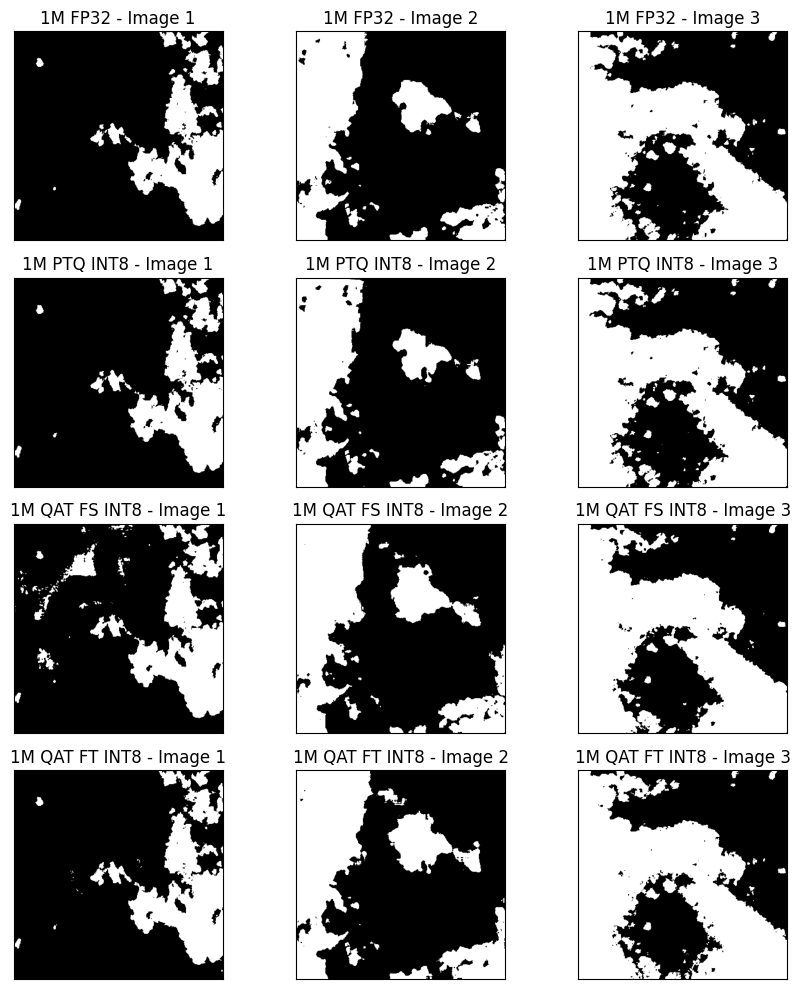
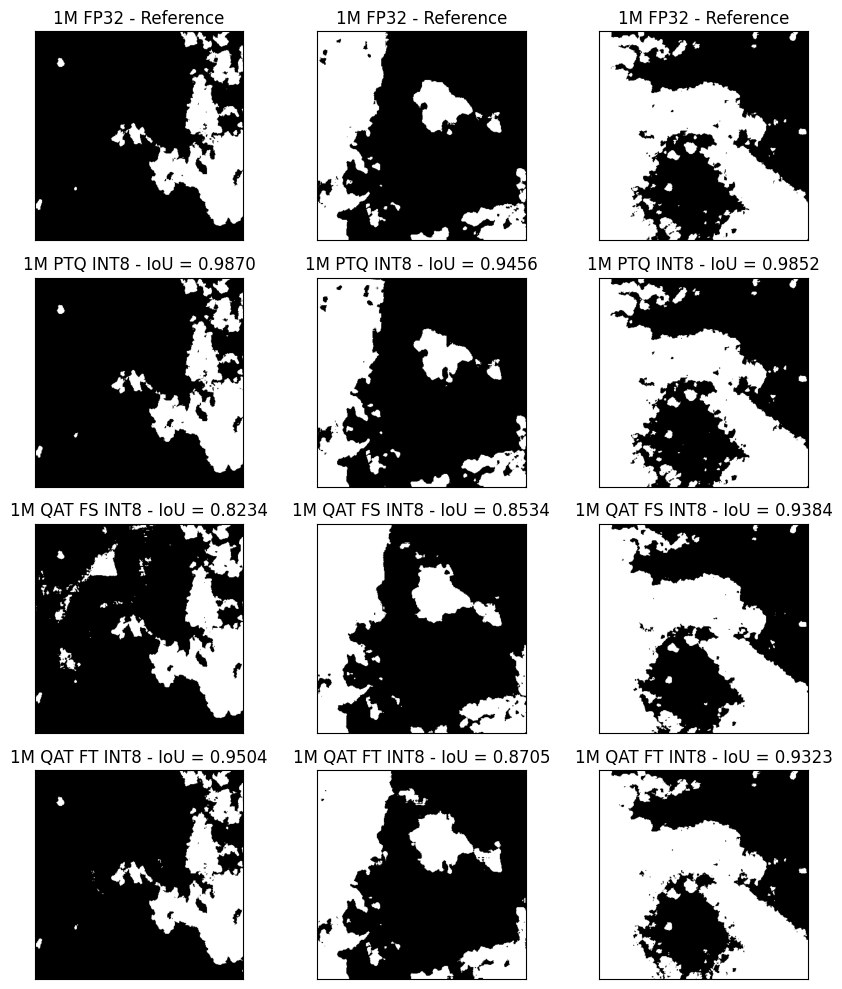
feat: IoU and MACs for metrics purposes

diff --git a/inference.py b/inference.py
@@ -6,12 +6,13 @@ import matplotlib.pyplot as plt
 from PIL import Image
 import tifffile
 import warnings
+import torchprofile
 
 from cloud_dataset import CloudDataset
-from unet import Unet_1M, Unet_7M, Unet_31M, Unet_1M_Q
+from unet import Unet_1M, Unet_7M, Unet_31M, Unet_1M_Q, Unet_400K
 
 warnings.filterwarnings("ignore", message="The given buffer is not writable")
-torch.backends.quantized.engine = 'fbgemm'
+torch.backends.quantized.engine = 'qnnpack'
 
 def single_image_inference(image_paths, model_pth, device, output_path="inference_result.png"):
     """
@@ -130,10 +131,11 @@ def single_image_inference(image_paths, model_pth, device, output_path="inferenc
     print(f"Figure saved to {output_path}")
     plt.close()
 
-def batch_comparison_inference(image_paths_list, models, device, output_path="inference_result.png", model_names=None):
+def batch_comparison_inference(image_paths_list, models, thresholds, device, output_path="inference_result.png", model_names=None):
     """
     image_paths_list: list of dicts, each containing paths to 4-channel images
     models: list of 2 model paths to compare
+    thresholds: list of thresholds for each model to binarize the output (same order as models)
     device: torch device
     output_path: path to save the result figure
     model_names: list of names for each model (optional)
@@ -154,9 +156,21 @@ def batch_comparison_inference(image_paths_list, models, device, output_path="in
             device = "cuda" if torch.cuda.is_available() else "cpu"
             loaded_program = torch.export.load(model_pth)
             model = loaded_program.module()
+        elif model_pth.endswith("unet_400k.pth"):
+            device = "cuda" if torch.cuda.is_available() else "cpu"
+            model = Unet_400K(in_channels=4, num_classes=1).to(device)
+            model.load_state_dict(torch.load(model_pth, map_location=torch.device(device)))
         elif model_pth.endswith("unet_1M.pth"):
             device = "cuda" if torch.cuda.is_available() else "cpu"
             model = Unet_1M(in_channels=4, num_classes=1).to(device)
+            model.load_state_dict(torch.load(model_pth, map_location=torch.device(device)))
+        elif model_pth.endswith("unet_7M.pth"):
+            device = "cuda" if torch.cuda.is_available() else "cpu"
+            model = Unet_7M(in_channels=4, num_classes=1).to(device)
+            model.load_state_dict(torch.load(model_pth, map_location=torch.device(device)))
+        elif model_pth.endswith("unet_31M.pth"):
+            device = "cuda" if torch.cuda.is_available() else "cpu"
+            model = Unet_31M(in_channels=4, num_classes=1).to(device)
             model.load_state_dict(torch.load(model_pth, map_location=torch.device(device)))
         elif model_pth.__contains__("QAT_FS"):
             device = "cpu"
@@ -215,6 +229,10 @@ def batch_comparison_inference(image_paths_list, models, device, output_path="in
             model.eval()
         loaded_models.append((model, model_pth))
 
+    source_pred_masks = []
+    IoUs = [[] for _ in range(len(models))]
+    macs = [[] for _ in range(len(models))]
+
     # Process each image
     for img_idx, image_paths in enumerate(image_paths_list):
         channels = []
@@ -232,14 +250,22 @@ def batch_comparison_inference(image_paths_list, models, device, output_path="in
             img_tensor = img_tensor_base.to(current_device)
             
             with torch.no_grad():
+                macs[model_idx].append(torchprofile.profile_macs(model, img_tensor))
                 pred_mask = model(img_tensor)
             
             pred_mask = pred_mask.squeeze(0).cpu().detach().numpy()
-            pred_mask = np.where(pred_mask > 2, 1, 0)
+            pred_mask = np.where(pred_mask > thresholds[model_idx], 1, 0)
             
+            if model_idx == 0:
+                source_pred_masks.append(pred_mask)
+                IoUs[model_idx].append(1)
+            else:
+                iou = calculate_iou(pred_mask, source_pred_masks[img_idx])
+                IoUs[model_idx].append(iou)
+
             axes[model_idx, img_idx].imshow(pred_mask[0], cmap="gray")
             if model_names:
-                axes[model_idx, img_idx].set_title(f"{model_names[model_idx]} - Image {img_idx+1}")
+                axes[model_idx, img_idx].set_title(f"{model_names[model_idx]} - {"IoU = {:.4f}".format(IoUs[model_idx][-1]) if model_idx > 0 else 'Reference'}")
             else:
                 axes[model_idx, img_idx].set_title(f"Model {model_idx+1} - Image {img_idx+1}")
             axes[model_idx, img_idx].set_xticks([])
@@ -248,7 +274,33 @@ def batch_comparison_inference(image_paths_list, models, device, output_path="in
     plt.tight_layout()
     plt.savefig(output_path, dpi=100, bbox_inches='tight')
     print(f"Comparison figure saved to {output_path}")
+    for model_idx, (model, model_pth) in enumerate(loaded_models):
+        if model_idx == 0:
+            print(f"Model {model_idx+1} (Reference): IoU = 1.0000")
+            avg_macs = np.mean(macs[model_idx])
+            print(f"Model {model_idx+1} ({model_pth}): Average MACs = {avg_macs:.2f}")
+        else:
+            avg_iou = np.mean(IoUs[model_idx])
+            print(f"Model {model_idx+1} ({model_pth}): Average IoU = {avg_iou:.4f}")
+            avg_macs = np.mean(macs[model_idx])
+            print(f"Model {model_idx+1} ({model_pth}): Average MACs = {avg_macs:.2f}")
     plt.close()
+
+def calculate_iou(mask1, mask2):
+    mask1 = np.ndarray.flatten(mask1)
+    mask2 = np.ndarray.flatten(mask2)
+
+    m1 = np.asarray(mask1).astype(bool)
+    m2 = np.asarray(mask2).astype(bool)
+    
+    intersection = np.logical_and(m1, m2).sum()
+    union = np.logical_or(m1, m2).sum()
+    
+    if union == 0:
+        return 1.0
+        
+    iou = intersection / union
+    return float(iou)
 
 if __name__ == "__main__":
     image_names = [("92_5_by_8_LC08_L1TP_029041_20160720_20170222_01_T1", "test"), ("49_3_by_9_LC08_L1TP_032035_20160420_20170223_01_T1", "test"), ("148_7_by_16_LC08_L1TP_061017_20160720_20170223_01_T1", "train")]
@@ -262,14 +314,13 @@ if __name__ == "__main__":
             'mask': f'./dataset/38-Cloud_{"training" if type == "train" else "test"}/{type}_gt/gt_patch_{image_name}.TIF' if type == "train" else None
         })
 
-    print(image_list)
-
 
     model_pth = "unet_1M_QAT_FT_int8.pth"
     device = "cuda" if torch.cuda.is_available() else "cpu"
     # The two first crop the mask
-# single_image_inference(image_list[0], model_pth, device, output_path="test_1.png")
-# single_image_inference(image_list[1], model_pth, device, output_path="test_2.png")
-# single_image_inference(image_list[2], model_pth, device, output_path="train.png")
+    # single_image_inference(image_list[0], model_pth, device, output_path="test_1.png")
+    # single_image_inference(image_list[1], model_pth, device, output_path="test_2.png")
+    # single_image_inference(image_list[2], model_pth, device, output_path="train.png")
 
-    batch_comparison_inference(image_list, ["./models/unet_1M.pth", "./models/unet_1M_PTQ_int8.pt", "./models/unet_1M_QAT_FS_int8.pth","./models/unet_1M_QAT_FT_int8.pth"], device, output_path="comparison_all.png", model_names=["1M FP32","1M PTQ INT8","1M QAT FS INT8","1M QAT FT INT8"])
+    # batch_comparison_inference(image_list, ["./models/unet_1M.pth", "./models/unet_1M_PTQ_int8.pt", "./models/unet_1M_QAT_FS_int8.pth","./models/unet_1M_QAT_FT_int8.pth"], [2,2,2,2], device, output_path="comparison_all_Q.png", model_names=["1M FP32","1M PTQ INT8","1M QAT FS INT8","1M QAT FT INT8"])
+    batch_comparison_inference(image_list, ["./models/unet_31M.pth", "./models/unet_7M.pth", "./models/unet_1M.pth","./models/unet_400k.pth"], [0,2,1,3], device, output_path="comparison_all_sizes.png", model_names=["31M FP32","7M FP32","1M FP32","1M PTQ INT8"])

diff --git a/README.md b/README.md
@@ -21,19 +21,22 @@ Here are the acronyms used in this repo:
 - FP32: full precision 32-bit floating point
 - INT8: 8-bit integer quantization
 - ?M or ?k: model size in number of parameters (e.g. 1M = 1e6 parameters, 400k = 400e3 parameters)
+- ?D?U: number of downsampling and upsampling layers (e.g. 4D4U = 4 downsampling and 4 upsampling layers)
+- IoU: Intersection over Union (a metric between 0 and 1, higher is better)
+- MACs: Multiply-Accumulate Operations (a measure of computational complexity, lower is better)
 
 ## 1 - Having a model that works pretty well
 ![image](inference_result_31M/test_1.png)
 
 ## 2 - Optimizing the model
-For the optimization part, I tried to remove some layers in the U-Net. This leads to 4 models, summarized bellow:
+For the optimization part, I tried to remove some layers in the U-Net. This leads to 4 models all with 1 bottleneck, summarized bellow:
 
-|DownSample|Bottleneck|Upsample|BatchNorm|Parameters|File size|
-|----------|----------|--------|---------|----------|---------|
-|4|1|4|No|31M|124Mo|
-|3|1|3|Yes|7M|31Mo|
-|2|1|2|Yes|1M|7.5Mo|
-|1|1|1|Yes|400k|1.6Mo|
+|Architecture|BatchNorm|Parameters|Avg. IoU| MACs | File size|
+|------------|---------|----------|--------|------|----------|
+|4D4U|No|31M|-|123G|124Mo|
+|3D3U|Yes|7M|0.8812|94G|31Mo|
+|2D2U|Yes|1M|0.8787|64G|7.5Mo|
+|1D1U|Yes|400k|0.8664|35G|1.6Mo|
 
 And the results are the following:
 
@@ -44,7 +47,11 @@ And the results are the following:
 |1M|![image](inference_result_1M/train.png)|![image](inference_result_1M/test_1.png)|![image](inference_result_1M/test_2.png)|
 |400k|![image](inference_result_400k/train.png)|![image](inference_result_400k/test_1.png)|![image](inference_result_400k/test_2.png)|
 
-The results are promising, but the 400k model tent to be unstable in its prediction. The 1M seems to be a good trade-off between size and performance.
+
+### Conclusion of the optimization part
+The results are promising, but the 400k model tent to be unstable in its prediction and spot clouds where there are none regardless of the threshold. This is not acceptable: we rather send useless data than deleting useful data. The 1M is a good trade-off between size and performance. For the moment, the models are clearly too heavy for MCU inference (35-123G MACs).
+![image](inference_result_31M/comparison_all.png)
+
 
 ## 3 - Quantize the model (1M, INT8)
 ### First try: Post-training static quantization (PTQ)
@@ -72,14 +79,14 @@ The results for the "with pre-trained weights" where better, but still not as go
 ![image](inference_result_1M/comparison_QAT_FT_int8.png)
 
 ### Conclusion of the quantization part
-The results are pretty surprising, as the PTQ method seems to be better, more stable and easier to implement than the QAT method. Here are my theories:
+The results are pretty surprising, as the PTQ method is clearly better (best IoU), more stable and easier to implement than the QAT method. Here are my theories:
 - The "from scratch" QAT can't be as good as the PTQ method, because during the training, the gradient is not as accurate due to the fake quantization modules.
 - The "with pre-trained weights" is not as good as the PTQ method, because the fine-tuning process overfits the model and add some noise in the prediction. I tried with a sixth and a half of the epoch, but it didn't change much the results.
 
 ![image](inference_result_1M/comparison_all_int8.png)
-|Model size|Quantization|Type|File size|
-|----------|------------|----|---------|
-|1M|-|-|7.5Mo|
-|1M|PTQ|INT8|2Mo|
-|1M|QAT|INT8 FS|2Mo|
-|1M|QAT|INT8 FT|2Mo|
+|Model size|Quantization|Type|Avg. IoU|File size|
+|----------|------------|----|---|---------|
+|1M|-|-|-|7.5Mo|
+|1M|PTQ|INT8|0.9726|2Mo|
+|1M|QAT|INT8 FS|0.8717|2Mo|
+|1M|QAT|INT8 FT|0.9177|2Mo|
